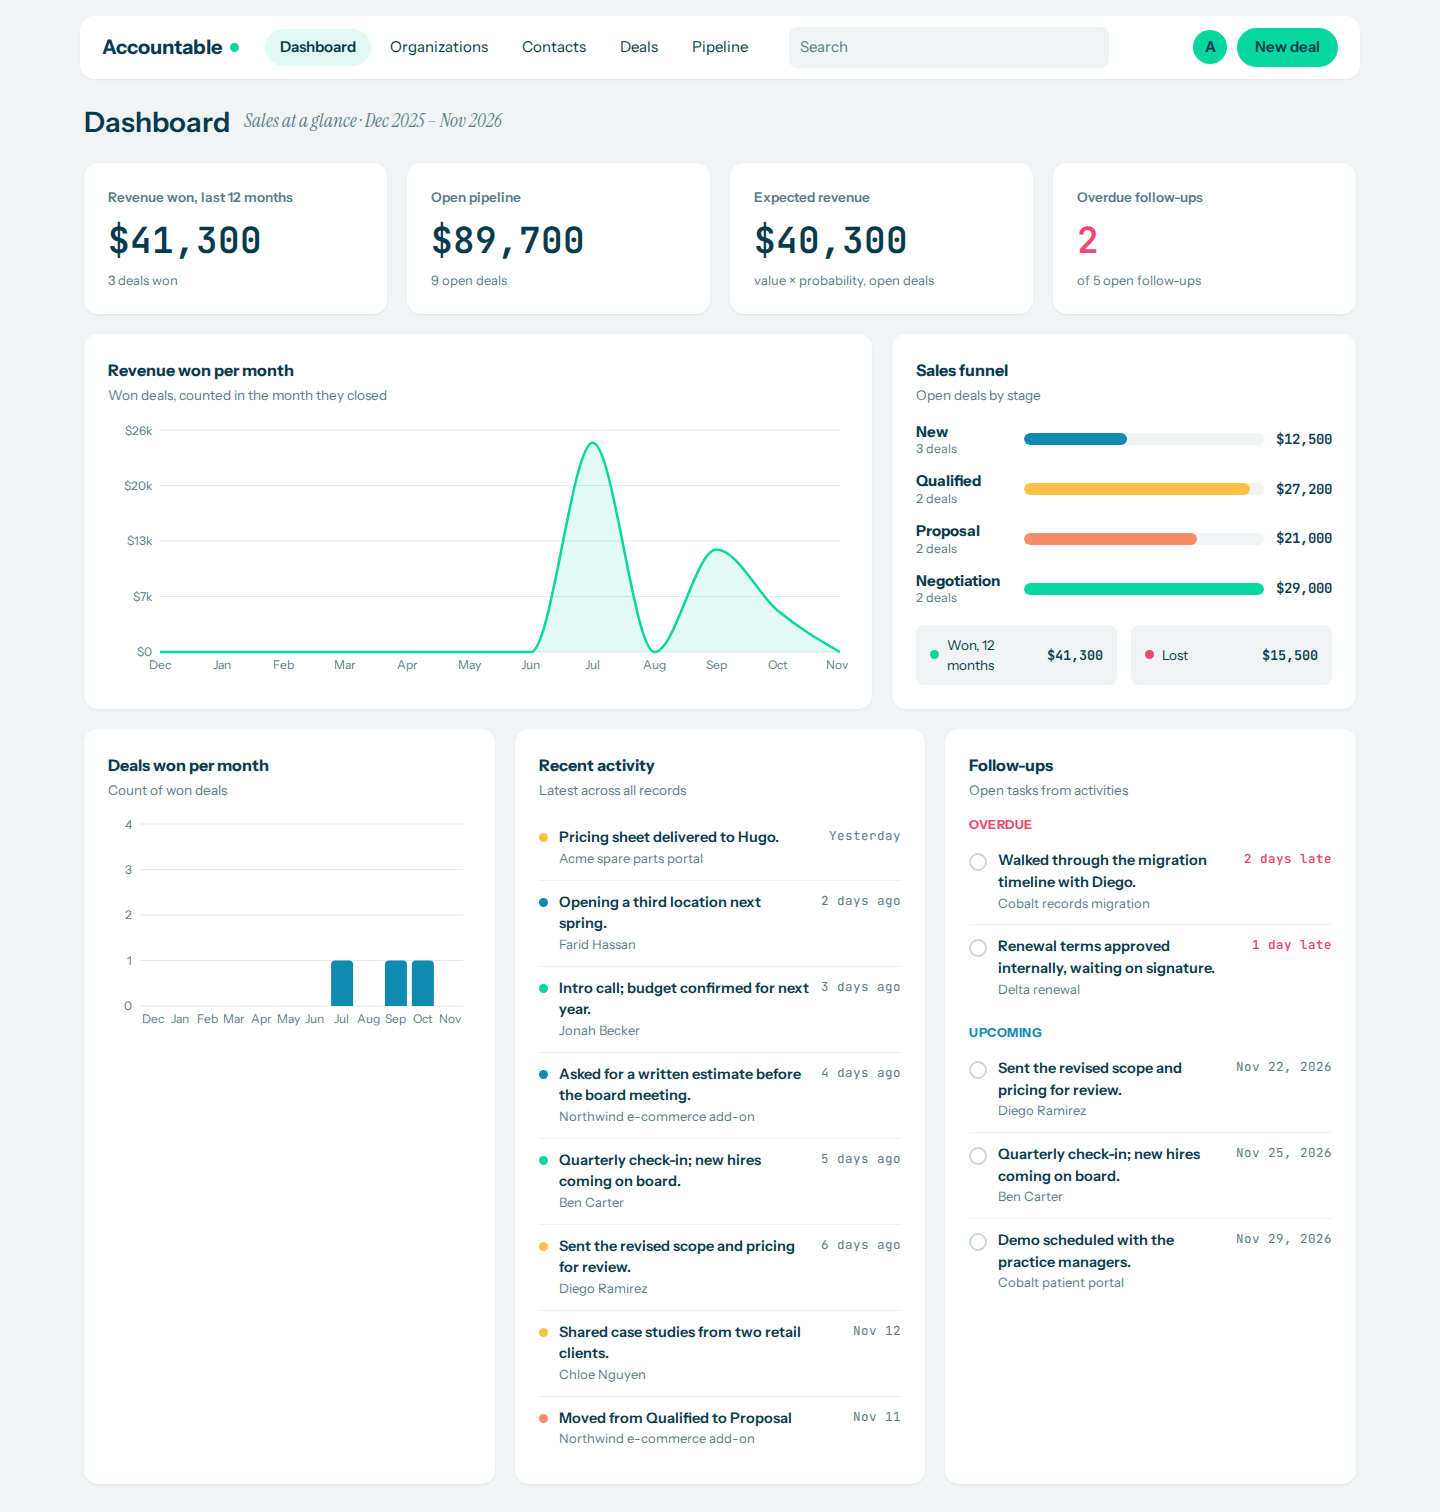
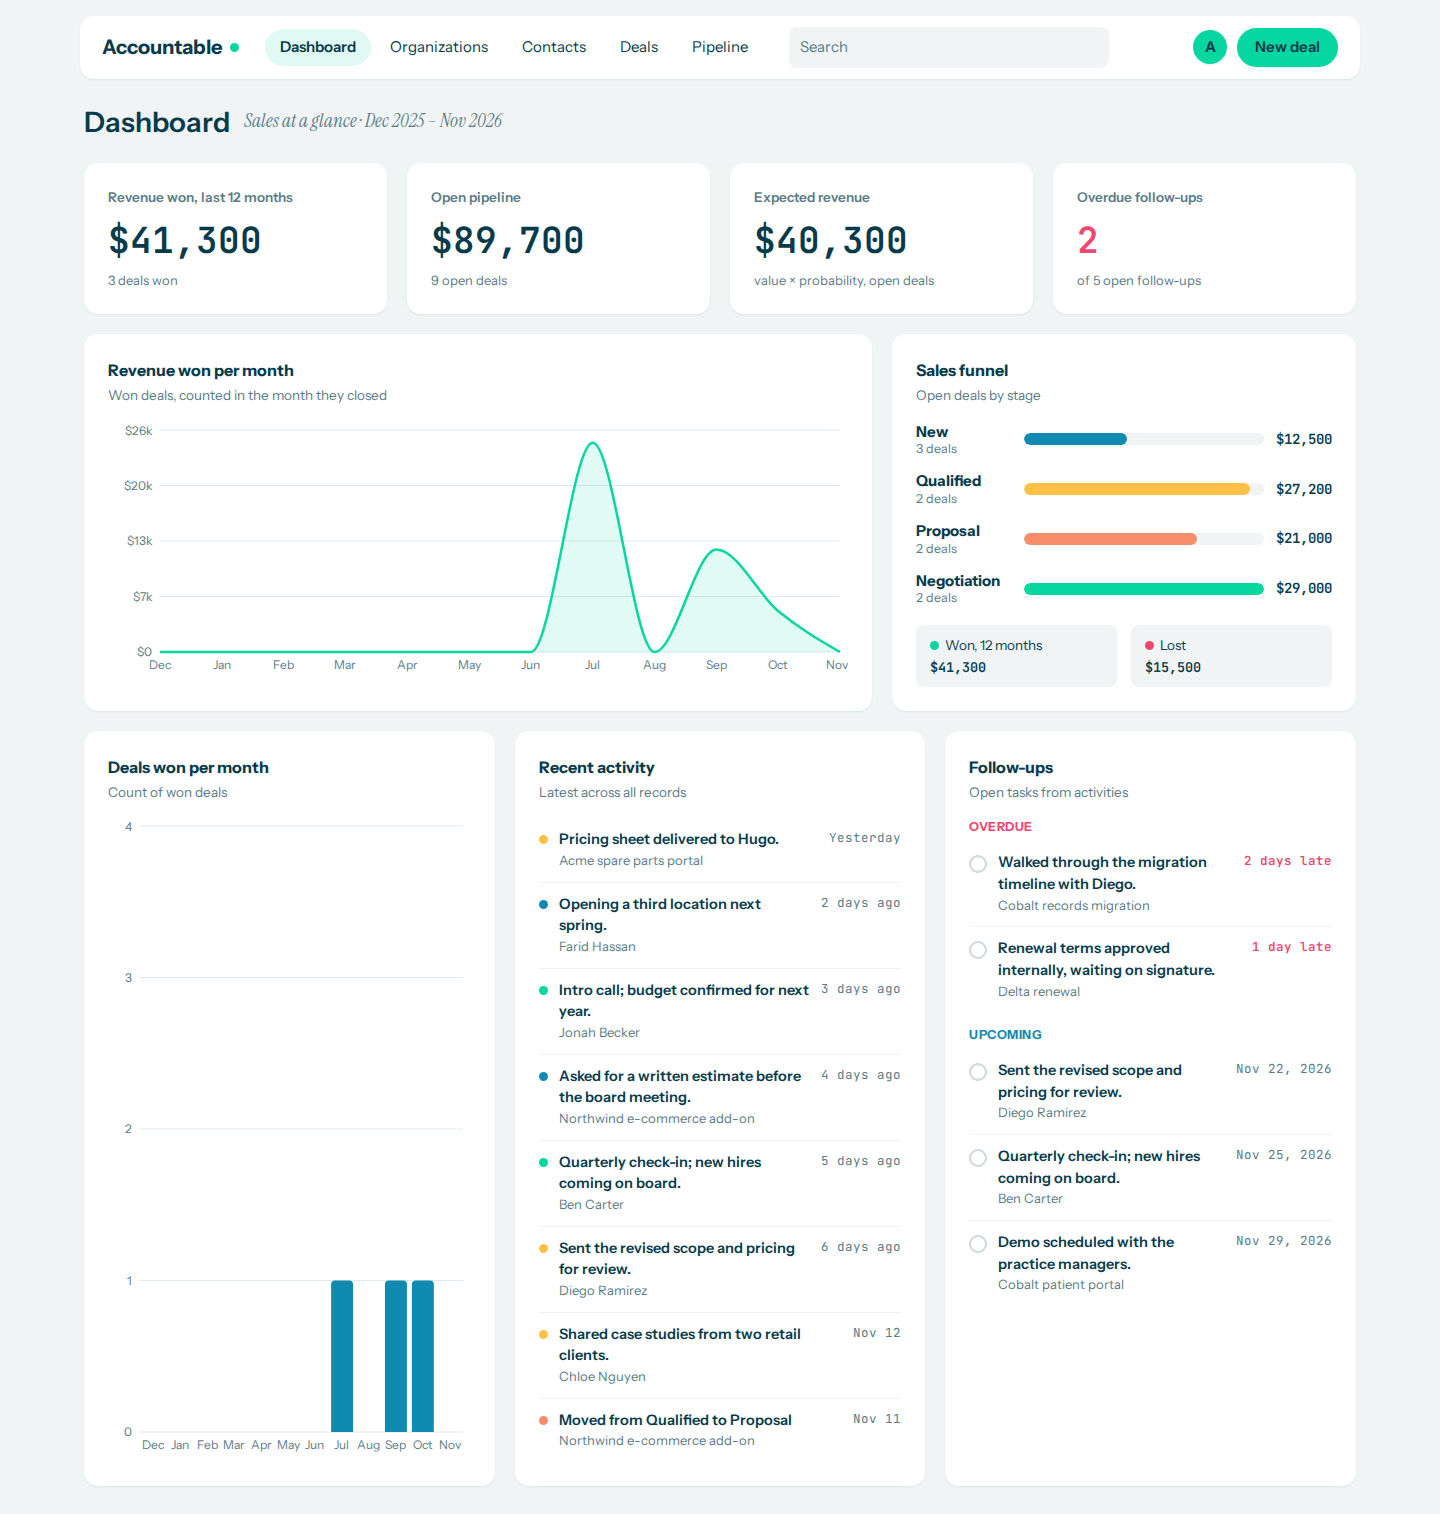
Fixes that were found

diff --git a/frontend/src/styles/brand.css b/frontend/src/styles/brand.css
@@ -813,6 +813,19 @@ textarea:focus-visible {
   gap: 20px;
 }
 
+/* Panels share the row's height; the chart fills its panel instead of
+   leaving the stretched card empty underneath a fixed-height chart. */
+.dashboard-lower .panel {
+  display: flex;
+  flex-direction: column;
+}
+
+.dashboard-lower .chart-box-short {
+  flex: 1;
+  height: auto;
+  min-height: 220px;
+}
+
 .dashboard h2 {
   margin: 0;
   font-size: 16px;
@@ -877,11 +890,11 @@ textarea:focus-visible {
   margin-top: 18px;
 }
 
+/* The label and its figure stack, as in the mockup, so the label of a
+   long chip such as "Won, 12 months" never wraps mid-label. */
 .chip {
   flex: 1;
-  display: flex;
-  align-items: center;
-  gap: 8px;
+  display: block;
   padding: 10px 14px;
   border-radius: var(--radius-control);
   background: var(--color-page);
@@ -889,14 +902,16 @@ textarea:focus-visible {
 }
 
 .chip strong {
-  margin-left: auto;
+  display: block;
+  margin-top: 2px;
 }
 
 .chip-dot {
+  display: inline-block;
   width: 9px;
   height: 9px;
   border-radius: 50%;
-  flex: none;
+  margin-right: 6px;
 }
 
 .activity-list,
@@ -1005,17 +1020,36 @@ textarea:focus-visible {
   font-size: 20px;
 }
 
+/* Columns share the width so all six fit a laptop screen (1280px content);
+   below that the board scrolls, and the scrollbar below is the affordance
+   that says so. */
 .pipeline-board {
   display: flex;
-  gap: 18px;
+  gap: 14px;
   align-items: flex-start;
   overflow-x: auto;
   padding-bottom: 12px;
+  scrollbar-width: thin;
+  scrollbar-color: var(--color-ink-muted) var(--color-page);
+}
+
+.pipeline-board::-webkit-scrollbar {
+  height: 10px;
+}
+
+.pipeline-board::-webkit-scrollbar-track {
+  background: var(--color-page);
+  border-radius: 999px;
+}
+
+.pipeline-board::-webkit-scrollbar-thumb {
+  background: var(--color-ink-muted);
+  border-radius: 999px;
 }
 
 .pipeline-column {
-  flex: none;
-  width: 258px;
+  flex: 1 1 0;
+  min-width: 195px;
   padding: 14px;
   border-radius: var(--radius-panel);
   transition: background 120ms ease;
@@ -1091,10 +1125,12 @@ textarea:focus-visible {
   margin-top: 1px;
 }
 
+/* Narrow columns put the date on its own line rather than squeezing it. */
 .deal-card-foot {
   display: flex;
+  flex-wrap: wrap;
   align-items: center;
-  gap: 10px;
+  gap: 4px 10px;
   margin-top: 9px;
   font-size: 13px;
 }

diff --git a/docs/STATUS.md b/docs/STATUS.md
@@ -212,6 +212,16 @@ Two findings from the build, fixed as they showed up: this machine's clock steps
   - **No record showed attribution in the running app** — the local `backend/accountable.db` predated the change and held old rows. `npm run seed` (against that local file only — `ACCOUNTABLE_DB` wins, so Supabase was never in the target) rebuilt it, and the API now reports e.g. Northwind Traders added by alex@brightloop.example and last changed by priya@brightloop.example, 2 of 6 organizations changed by someone other than the adder.
 - Left for the project owner, as the plan sets out: `npm run check` with `.env` moved aside (the agent may not touch `.env`), the `npm start` walk against Supabase with a wrong password and every kind of save, and the first Render deploy after this merges to `main`.
 
+## Ui-check fixes — pipeline and dashboard (2026-11-19)
+
+The ui-check pass over every signed-in page (report and screenshots in the session, three proof PNGs in `docs/changes/multi-user/`) came back "pass with minor issues"; the three findings, fixed in `frontend/src/styles/brand.css`:
+
+- **Pipeline columns clipped at 1440px (the one real defect).** Six fixed 258px columns plus gaps need 1638px while the content area is 1272px, so Won and Lost were cut off mid-card with no sign the board scrolls — against `docs/specs/look-and-feel.md`'s "designed for a laptop or desktop screen". Columns now share the width (`flex: 1 1 0`, `min-width: 195px`): at 1440 all six fit (6×200 + 5×14 = 1270 ≤ 1272, no overflow). Below that the board scrolls, now with a visible brand-coloured scrollbar (`scrollbar-width: thin` + a styled `::-webkit-scrollbar`), and a card's date wraps to its own line instead of squeezing. `docs/specs/pipeline.md` records it.
+- **Dead space under "Deals won per month".** The chart box was a fixed 220px while the grid row stretched the panel to its neighbours' height; the chart now fills the panel it sits in.
+- **Funnel chip label wrapping.** `.chip` was a flex row with the figure pushed right, so "Won, 12 months" broke mid-label at half panel width; label and figure now stack, as `docs/mockups/dashboard.html` does.
+
+Proof: `npm run check` green after the change (256 frontend, 125 backend, 50 e2e tests), and the run regenerated the four `docs/changes/dark-mode/` PNGs — `pipeline-light/dark.png` now show all six columns. Proof screenshots for these fixes: `docs/changes/multi-user/pipeline-fit-1440.png`, `pipeline-scroll-1100.png`, `dashboard-nits-1440.png`.
+
 ## Not started
 
 - All four phases of `docs/changes/mvp/plan.md` are implemented, `npm test` is green (123 tests) and `npm run lint` is clean.

diff --git a/docs/specs/pipeline.md b/docs/specs/pipeline.md
@@ -1,6 +1,6 @@
 # Spec: Pipeline
 
-- **Pipeline**: the deals as cards on a board, one column per stage. Drag a card to another column to change the deal's stage, or within a column to change its place; a card can be dropped anywhere in a column, and it stays where it was dropped. A new deal can be added straight into a column, at that stage. The board shows the total value and expected revenue of the deals still open, each column shows its own, and the figures change as soon as a card moves.
+- **Pipeline**: the deals as cards on a board, one column per stage. Drag a card to another column to change the deal's stage, or within a column to change its place; a card can be dropped anywhere in a column, and it stays where it was dropped. A new deal can be added straight into a column, at that stage. The board shows the total value and expected revenue of the deals still open, each column shows its own, and the figures change as soon as a card moves. The six columns share the width on a laptop screen, so none of them is cut off; on a narrower window the board scrolls sideways and shows its scrollbar.
 
 ## Design decisions
 
